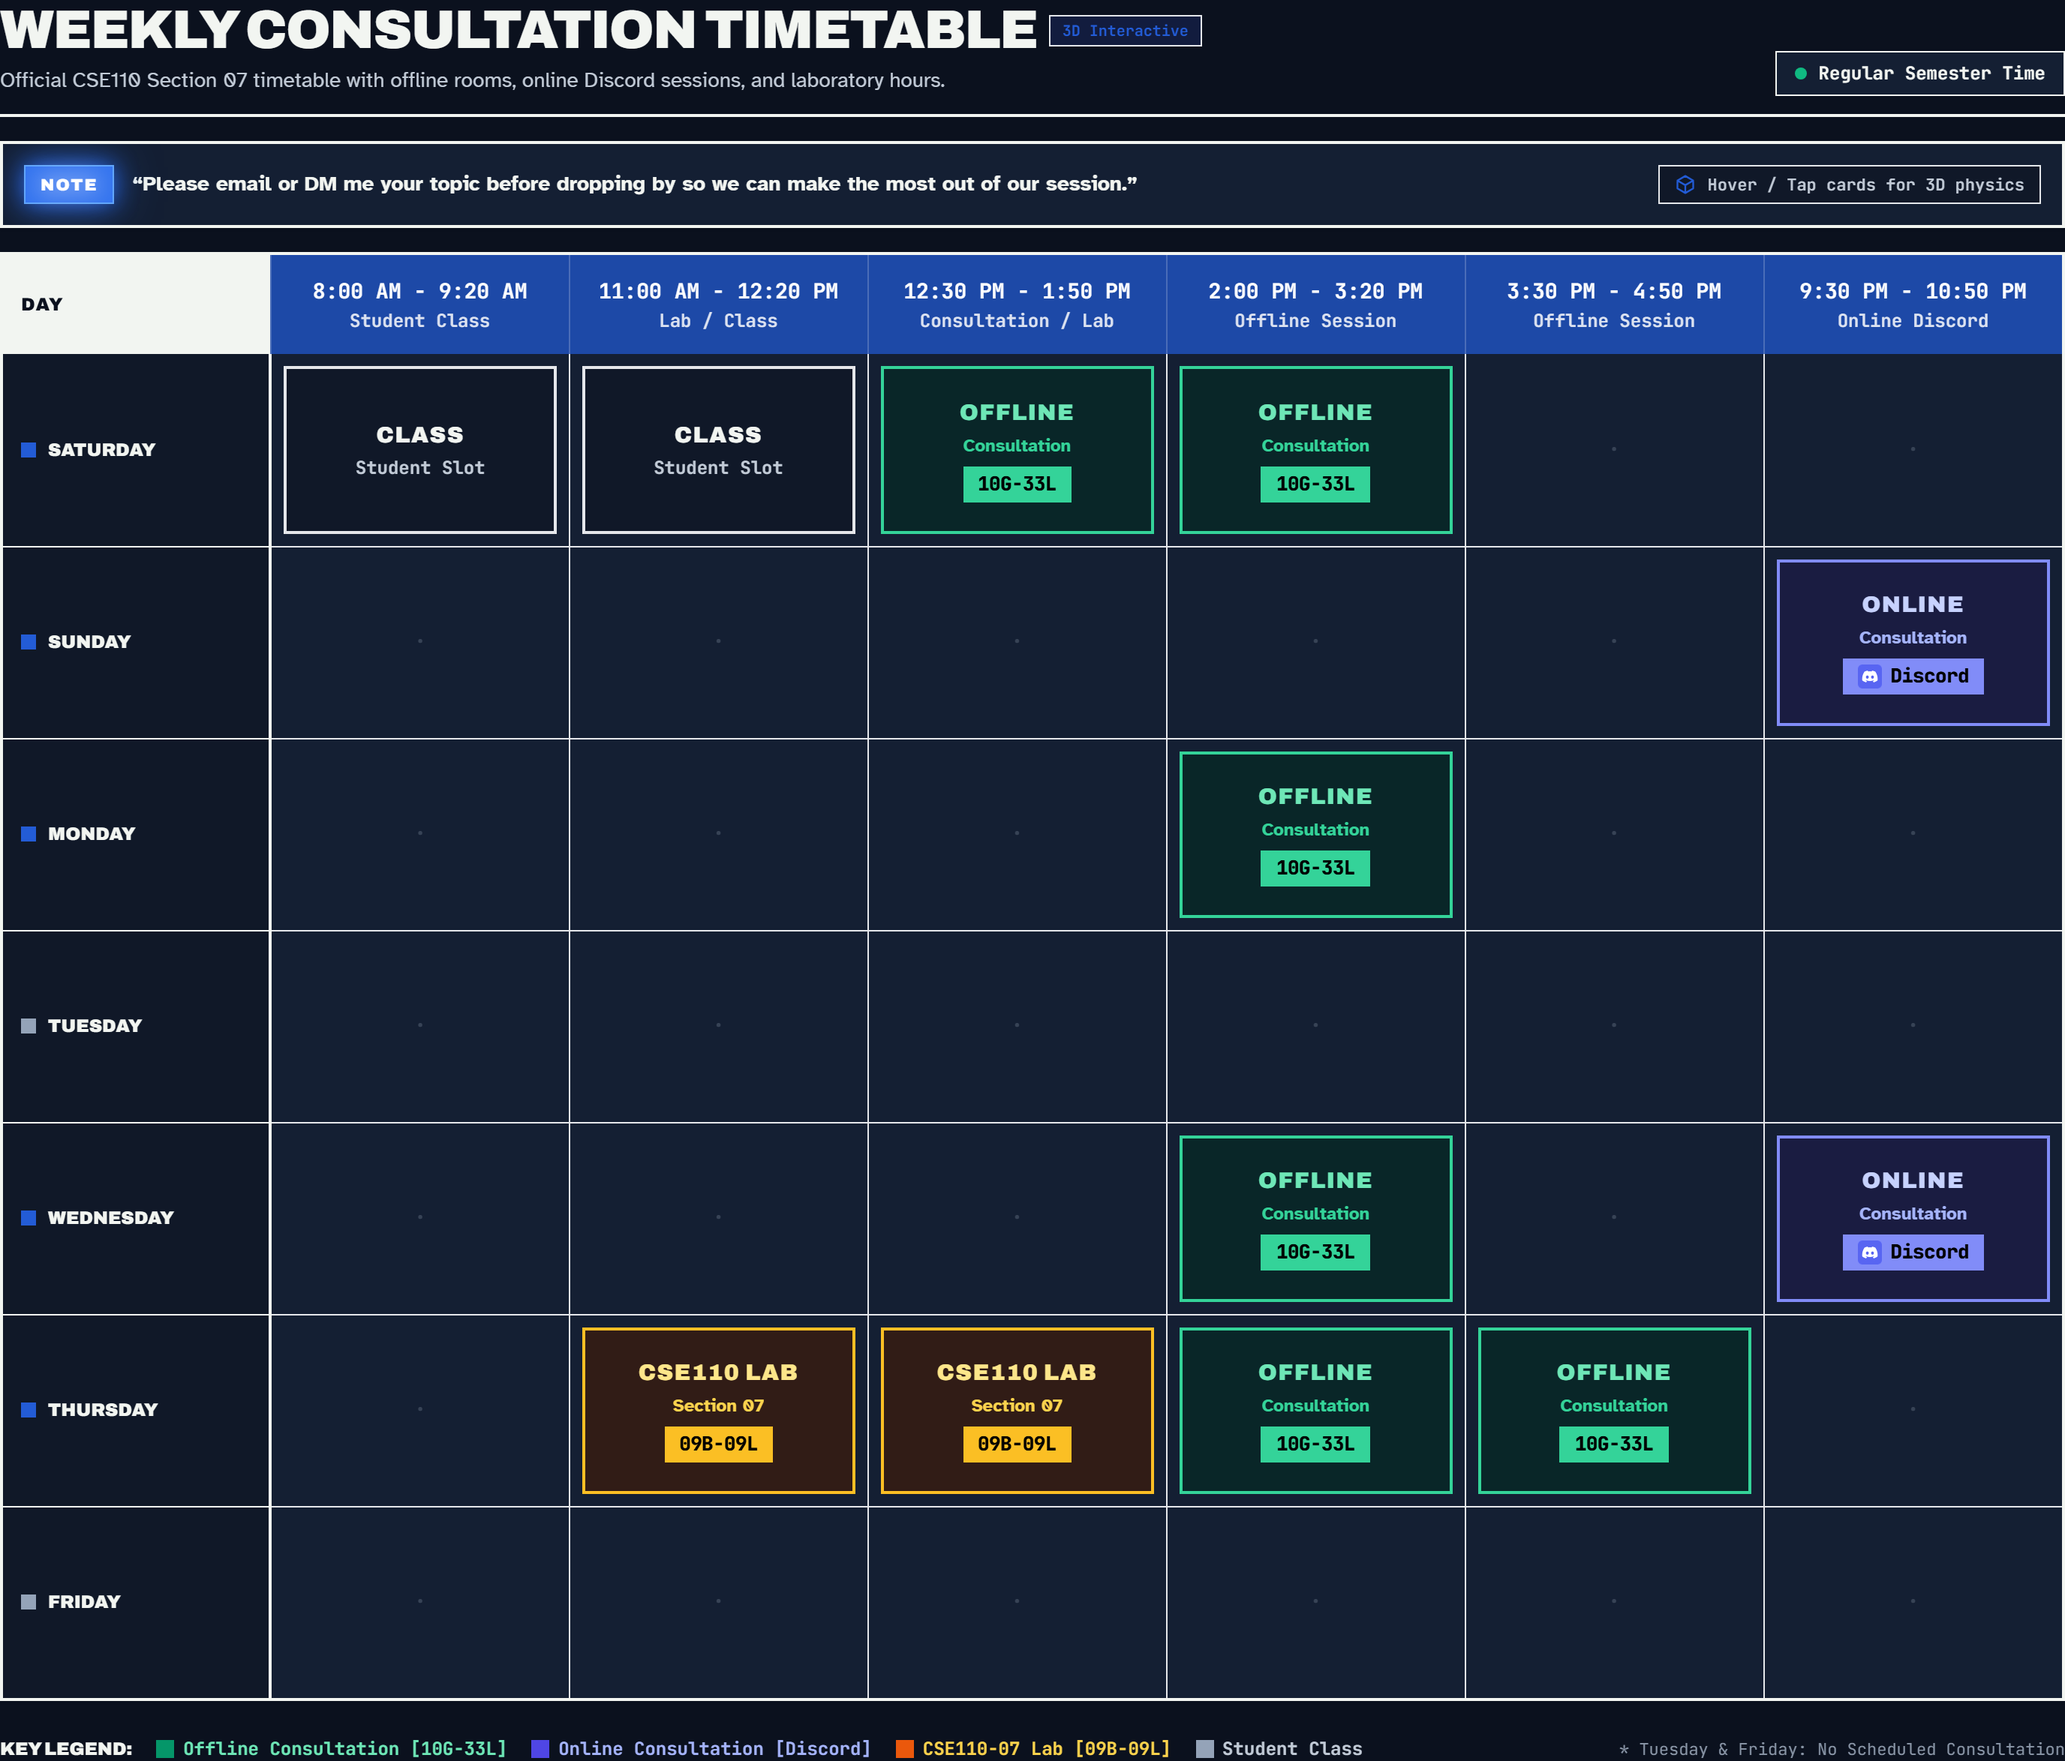
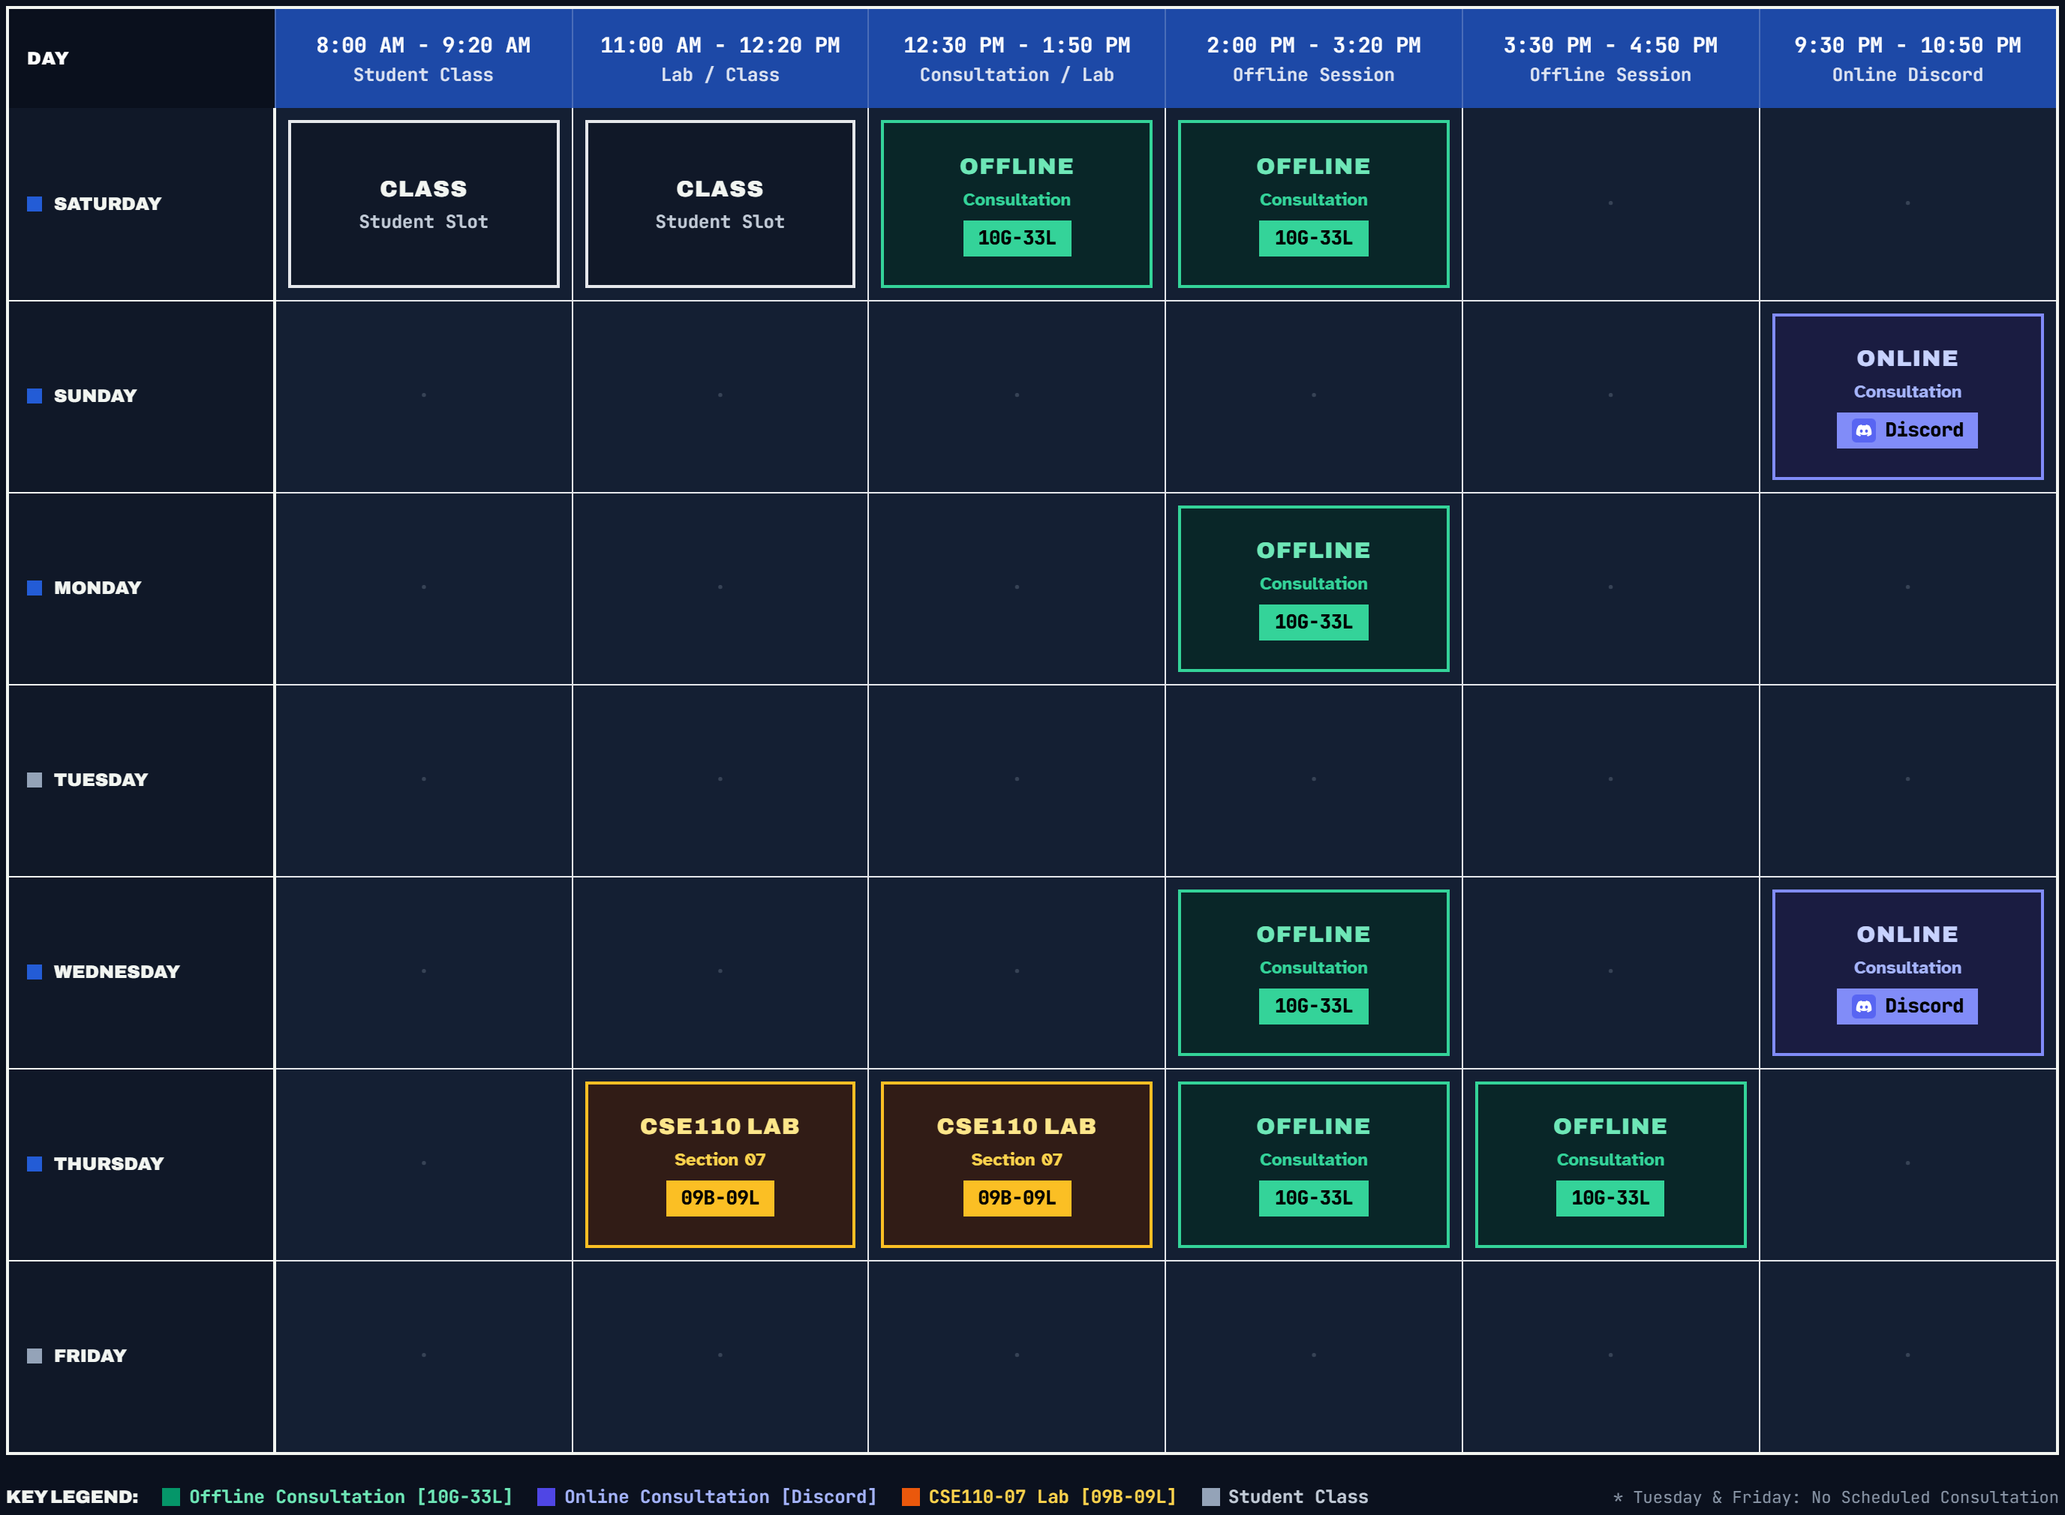
docs: generate high-res clean timetable matrix and announcement graphic for Slack

diff --git a/src/App.tsx b/src/App.tsx
@@ -1016,12 +1016,13 @@ export default function App() {
           </div>
 
           {/* ── DESKTOP SPREADSHEET TABLE (Framer Motion 3D Interactive Reacting Cells) ── */}
-          <div className={`${mobileTab === 'cards' ? 'hidden md:block' : 'block'} border-2 border-[var(--ink)] bg-[var(--paper-card)] overflow-x-auto md:overflow-x-visible shadow-sm`}>
+          <div id="timetable-matrix-plate" className="space-y-3 p-1">
+            <div className={`${mobileTab === 'cards' ? 'hidden md:block' : 'block'} border-2 border-[var(--ink)] bg-[var(--paper-card)] overflow-x-auto md:overflow-x-visible shadow-sm`}>
             <table className="w-full table-fixed text-xs border-collapse min-w-[700px] md:min-w-full">
               <thead>
-                <tr className="bg-[var(--ink)] text-[var(--paper)]">
+                <tr className="bg-[#121c33] text-white">
                   {/* Day Column Header */}
-                  <th className="py-3.5 px-3 text-left font-display font-black uppercase tracking-wider text-xs border-r border-white/20 w-[13%]">
+                  <th className="py-3.5 px-3 text-left font-display font-black uppercase tracking-wider text-xs border-r border-white/20 w-[13%] bg-[#0a101d] text-white">
                     DAY
                   </th>
 
@@ -1185,6 +1186,7 @@ export default function App() {
             <div className="text-[11px] font-mono text-[var(--ink-3)]">
               * Tuesday &amp; Friday: No Scheduled Consultation
             </div>
+          </div>
           </div>
 
         </section>
